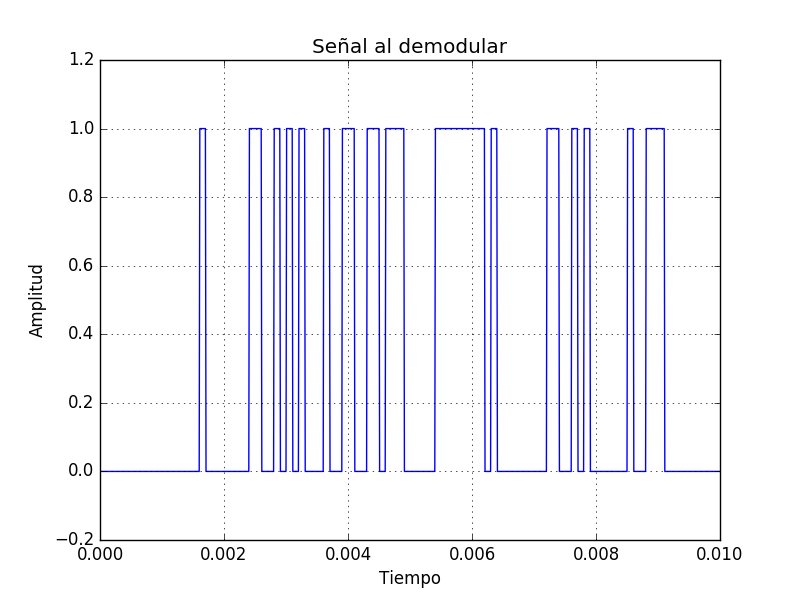
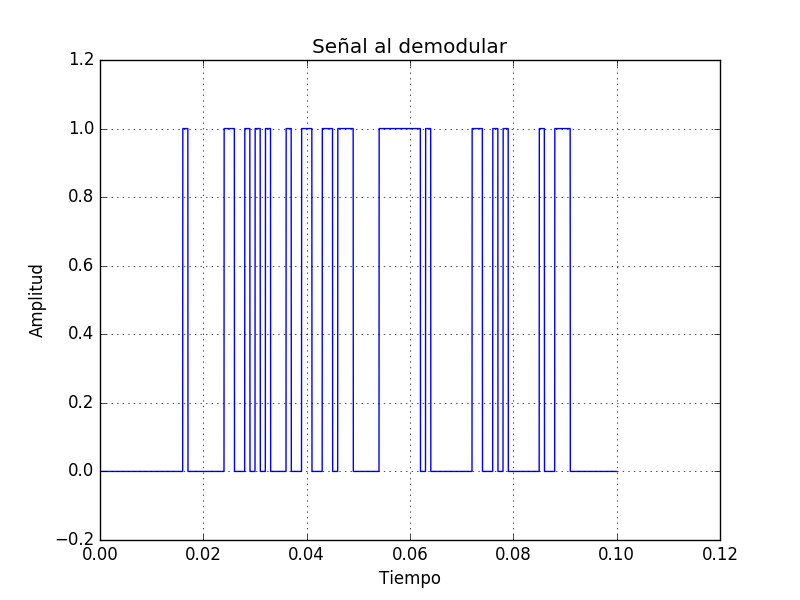
Mostrando 10.000 bits

diff --git a/lab4.py b/lab4.py
@@ -61,10 +61,10 @@ def digitalGraph(signalBin, title, figura):
 	visualBin = []
 	bp = 0.001
 	for bit in signalBin:
-		for i in range(10):
+		for i in range(100):
 			visualBin.append(bit)
 	new_time = np.arange(bp/100, bp*len(visualBin) + bp/100, bp/100)
-	plt.plot(new_time[:1000], visualBin[:1000])
+	plt.plot(new_time[:10000], visualBin[:10000])
 	plt.ylim(-0.2,1.2)
 	plt.xlabel("Tiempo")
 	plt.ylabel("Amplitud")
@@ -85,7 +85,7 @@ def OOKModulation(signalBin):
 	time = np.arange(bp/100,bp + bp/100,bp/100)
 	modulated = []
 	count = 0
-	for bit in signalBin[:5000]:
+	for bit in signalBin[:10000]:
 		count +=1
 		if bit==1:
 			modulated = np.concatenate((modulated,A*cos(2*pi*f*time)))
@@ -100,7 +100,7 @@ def OOKModulation(signalBin):
 	plt.ylabel("Amplitud")
 	plt.title("Señal Modulación OOK")
 	plt.grid(True)
-	plt.plot(time2[:5000],modulated[:5000])
+	plt.plot(time2[:10000],modulated[:10000])
 	savefig("modulacion_OOK")
 	plt.show()
 	return modulated, time, f
@@ -137,7 +137,7 @@ binarySignal = getArrayBin(y_signal)
 # se decide mostrar solo 5000 datos, ya que si quisiera 
 # mostrar todos los datos tomaría mucho tiempo.
 print("1.- Digitalizando la señal, espero un momento...\n")
-digitalGraph(binarySignal[:5000],"Señal Original","senal_original")
+digitalGraph(binarySignal[:10000],"Señal Original","senal_original")
 modulated, time, f = OOKModulation(binarySignal)
 demodulated = OOKdemodulation(modulated,time,f)
 print("4.- Digitalizando la señal demodulada, espero un momento...\n")
